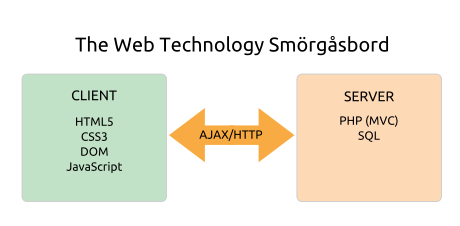
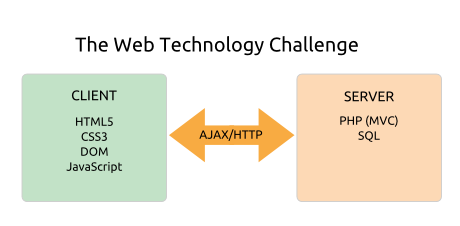
Refactored architectural goals

Changed region(s): [[0.5783, 0.1549, 0.8522, 0.2478]]

diff --git a/docs/architecture/goals.md b/docs/architecture/goals.md
@@ -1,103 +1,101 @@
-# Architecture & Design > Distinctive Design Goals
+# Architecture & Design > Design Goals
 
-## What Challenges Does Agile Toolkit Solve?
+## What Challenges Is Agile Toolkit Designed To Solve?
 
-Agile Toolkit is designed to help developers of data-intensive web applications solve three of their greatest challenges:
+Agile Toolkit is a new kind of PHP framework focused on easing the development of rich-client AJAX applications. 
 
-+ Rich web interfaces
-+ Agile development
-+ Code reusability
+The increasing importance of desktop-like AJAX interfaces is a game-changer for PHP application developers:
 
-### Rich web interfaces are hard
+* Rich interfaces require complex HTML5 and CSS3
+* We need non-trivial JavaScript in the client to enforce business rules, handle events and bind data structures to the interface
+* We need to move data between the database, our PHP server-side objects and our JavaScript in the client
+* For security, we need to double-check client-side business rules on the server
+* And we have to tie all this together with AJAX calls in both directions.
 
-The increasing importance of desktop-like AJAX interfaces is a game-changer for PHP developers. Nowadays you'll typically be juggling with a veritable smörgåsbord of technologies:
+![The Web Technology Challenge](/dia-web-technologies.png)
 
-+ HTML5 & CSS3 for the client interface
-+ JavaScript for client interactivity
-+ A PHP MVC framework on the server side
-+ Perhaps some raw SQL in the data layer
-+ And client-server AJAX calls to tie the whole thing together
+The PHP community offers an exceptional choice of well-engineered MVC frameworks, but even the best can only offer a partial solution to the many challenges of developing rich-client applications.
 
-![Web Development Complexity](dia-web-technologies.png)
+With some frameworks you create your AJAX data management system though code generation, and this can work well for straightforward requirements. But your application design is constrained by the features built into the generator, and you can end up adapting more complex projects to the framework rather than the framework to the project.
 
-This complexity makes modern rich web applications hard to author, hard to test and hard to change.
+The other main option is a multi-framework development stack. Typically this involves a PHP MVC framework on the server-side, a JavaScript user interface framework such as JQuery UI on the client-side, and perhaps a CSS framework such as Bootstrap to ease the styling headache. But now you're working with two or three complex and overlapping frameworks in different languages, and you're still having to figure out your own way to tie them together with AJAX. It's a challenge to keep things [DRY](http://en.wikipedia.org/wiki/Don't_repeat_yourself) and avoid duplicating effort on the client and the server. The learning curve is steep. And the resulting code can be hard to test and tricky to change as requirements evolve. 
 
-### Agile development is hard
+Neither of these solutions met the needs of our busy web development house. So we set out to build a more integrated, flexible and reliable approach to developing rich web applications.
 
-The benefits of [Agile development](http://en.wikipedia.org/wiki/Agile_development) are increasingly understood, but until now PHP frameworks haven't really evolved to meet the new demands of Agile processes. 
+## What Benefits Does Agile Toolkit Deliver?
 
-Ideally we want to incrementally add business and interface functionality without breaking our working code, and to plug together the work of different developers or teams for frequent releases with minimal integration headaches.
+With so many excellent PHP frameworks, any new project has to justify its existence by delivering dictinctive and compelling benefits.
 
-How much help does your current framework offer with these Agile challenges?
+Our inspiration has been desktop GUI frameworks such as Cocoa, QT and .Net. Compared to mainstream PHP frameworks, these offer a notably easier route to building rich applications:
 
-### Code reusability is hard
+* They abstract away most of the complexity of full-featured GUIs without sacrificing flexibility, freeing the developer to focus on business functionality rather than low-level nuts and bolts
+* You do your work in a single language and access the framework functionality through a single API
+* You create a rich user experience by plugging together and configuring well-tested GUI components
+* You develop new GUI components by combining sub-components
+* You can plug in additional functionality through a thriving ecosystem of open source and commercial addons
+* The GUI is nicely styled by default and is easy to re-skin
+* And on the business side, your data structures bind seamlessly to your interface widgets.
 
-This was the great promise of object-oriented design, but long experience has proved that effective reuse is a truly hard problem. 
+Agile Toolkit offers all of these benefits to developers building data-centric AJAX applications in PHP. 
 
-One of the most successful approaches is component reuse &ndash; flexible business and interface components can accelerate development and increase reliability.
+We call our solution a Toolkit rather than a framework because the focus is on rapid development with reusable interface and business components. And we call it Agile because the components are designed to adapt easily and reliably as agile requirements evolve.
 
-But few PHP application frameworks offer much help if you want to build truly useful components that can adapt to changing requirements.
+In practice, you'll be working with:
 
-### The need for a fresh approach
+* **A fresh approach to Views**: building a rich user experience by snapping together flexible, event-aware View components using only PHP([see more...](/TODO)) 
+* **A fresh approach to Models**: building your business logic in Models that plug directly into your View components and adapt robustly as requirements evolve ([see more...](/TODO)) 
+* **A fresh approach to Addons**: plugging in additional functionality from an ecosystem of Addons that take full advantage of the event handling and styling features of the Toolkit Core ([see more...](/TODO)).
 
-As we've seen, the demands on developers are evolving rapidly, but there's been surprisingly little innovation in the world of PHP application frameworks. The focus is on server-side implementations of the [MVC pattern](http://en.wikipedia.org/wiki/MVC_Pattern) (Model, View, Controller) and most of the main players seem to be converging on a very similar approach, to the point that their increasingly decoupled libraries are becoming interchangable. There have been major improvements in the field of testability through the use of [dependency injection](http://en.wikipedia.org/wiki/Dependency_Injection), but in most other respects the MVC frameworks of today are quite similar to the previous generation. 
+So what is the payoff for you, the developer? Quite simply, AJAX applications that are:
 
-So measured against the challenges of rich application interfaces, of Agile development and of code reusability, how much practical payoff is your big full-stack MVC framework really offering in return for the complexity and learning curve? It's a question that many are asking with increasing seriousness, and we even have community gurus such as Rasmus Lerdorf (the original author of PHP) arguing that you're better off with a [no-framework](http://toys.lerdorf.com/archives/38-The-no-framework-PHP-MVC-framework.html) approach.
+* Easier to build
+* Easier to test
+* And easier to change.
 
-But this is surely a counsel of despair. What we really need is a radical rethink of the purpose of PHP application frameworks to ensure that they offer practical help with the truly hard problems of rich application development.
+### Example: a full-featured CRUD application in just TODO lines of code
 
-## How Does Agile Toolkit Tackle These Challenges?
+To whet your appetite, here's a complete [CRUD](http://en.wikipedia.org/wiki/Create,_read,_update_and_delete) system for a `user` table, with searching, browsing, sorting, paging, creating, updating, deleting, validation and localized user error messages. With some popular frameworks this would require dozens, even hundreds of lines of code. Not with Agile Toolkit:
 
-Compared to a typical PHP MVC framework, the design of Agile Toolkit is quite radical. Our choices have been driven by three key goals:
+<?-- Would it be better to show them a relational example with master-detail? Even more impressive??>
 
-+ Harnessing the **Abstraction Principle** so developers can work with the web technology smörgåsbord through a consistent PHP API
-+ Harnessing the **Composability Principle** so developers can build complex business and interface components from smaller, tested subcomponents
-+ Harnessing the **Extensibility Principle** so developers can add new functionality to their components with ease as Agile requirements evolve.
+    TODO
+    // Let's set up a data Model
+    // Now we'll add some validation rules
+    // We plug our Model into the Agile Toolkit CRUD Addon
+    // And configure some additional UI functionality
+
+That's all there is to it. Every aspect of the functionality and look-and-feel can be customized with ease &ndash; you can even swap in a different grid component! And this is what you get in just xx lines of code &ndash; a full-featured, attractive data entry system that's ready to go:
+
+    TODO
+    // Screenshot? Screencast? Live demo?
+
+## How Does Agile Toolkit Deliver These Benefits?
+
+New benefits require new approaches. The techniques are widely used in desktop frameworks, but may be unfamiliar to web developers.
+
+You'll find the Toolkit easier to learn if you understand the four key engineering principles it's built on.
 
 ### The Abstraction Principle
 
-Typically developers will use: 
-
-* A PHP MVC framework to help abstract away HTTP, HTML5, SQL and server-side AJAX
-* A JavaScript toolkit such as [JQuery](http://jquery.com/) to help abstract away JavaScript, the DOM and client-side AJAX
-* And a front-end framework such as [Bootstrap](http://twitter.github.com/bootstrap/) to help abstract away HTML5, CSS3 and JavaScript.
-
-This helps bring the technology smörgåsbord under control, but working with three complex and overlapping frameworks in three different languages is still a pretty major headache.
-
-We developed Agile Toolkit to abstract all these technologies into one integrated and consistent PHP framework:
-
-* Managing the server-side with MVC refactored for the demands of Agile, component-driven development
-* Native integration of JQuery and JQuery UI, defining client-side behaviour and handling client-side events using PHP on the server-side
-* Styling your interface components with a fully-integrated CSS3 framework that's easy to skin and adapt
-* And handling all the AJAX complexity required to plumb the client into the server.
+We abstract all the technologies of the client-side and the server-side behind a consistent PHP interface. You lay out your data entry system, define UI behaviour and handle client-side events using PHP on the server.
 
 ![Web Development Levels of Abstraction](dia-levels-of-abstraction.png)
 
-Years of experience with demanding Agile projects has proven that this radical level of abstraction simplifies development and eases testing.
+Years of experience with demanding Agile projects has proven that this radical level of abstraction shortens the learning curve, simplifies development and eases testing.
 
 ### The Composability Principle
 
-As developers we've worked with GUI frameworks such as Cocoa, and when we began to build rich web interfaces we wondered why it had to be so hard. So we've adapted techniques from desktop GUI frameworks to the client-server world of web applications.
+The Toolkit is designed from the ground up to help developers compose View components from smaller sub-components. Component-focused development shortens delivery cycles and increases reliability, and it's Composability that makes this possible.
 
-On the desktop you build complex GUI components from simpler, tested subcomponents such as buttons, fields, data grids, forms and tabs. This is a practical example of [Composability](http://en.wikipedia.org/wiki/Composability)
+Techically, Composability requires components that are independent, keep track of their own state and know how to cooperate with each other. Much of the design of Agile Toolkit is focused on achieving these requirements.
 
-Our goal for Agile Toolkit was to make it equally easy to build interactive, event-aware interface components using HTML5, CSS3, JavaScript and AJAX. 
+Composability isn't restricted to View components &ndash; Models are composable too. So you can build complex business rules from simpler sub-components.
 
-Achieving Composability requires new approaches to framework design. Components need to be independent, keep track of their own state and know how to cooperate with each other. This is a challenge for developers, so as far as possible the framework has to handle this for them. In Agile Toolkit all objects descend from an `Abstract Object` class which provides a number of Composability services. You'll find the details in the article [Working With Objects](/TODO).
-
-In Agile Toolkit, Composability  means that interface objects know how to render their children and access them dynamically with JQuery. For example you can create a form, plug in layers of interactive, event-aware subcomponents, write your event handling code in PHP and the whole thing will automatically render and run. It all just works.
-
-From there it's a short step to realizing that SQL queries can also be rendered from nested templates, so we built Agile ORM, an object-relational mapper that allows you to compose SQL queries from smaller query components such as expressions and subqueries.
-
-It's a new world for PHP and you're going to love it! To give you a taste of the power of Composability, here's a complete [CRUD](http://en.wikipedia.org/wiki/Create,_read,_update_and_delete) system for a `user` table, with searching, browsing, sorting, paging, creating, updating, deleting, validation and localized user error messages. It's built with an Addon component composed from a wide range of subcomponents.
-
-    TODO, with the new declarative validation plugin
-
-With Agile Toolkit any developer can quickly develop a range of tested and reliable business and interface components to meet the repeating requirements of your problem domain.
+With Agile Toolkit any developer can quickly develop a range of flexible business and interface components to meet the repeating requirements of your problem domain.
 
 ### The Extensibility Principle
 
-But Composability is only the first step to a truly Agile web framework. In many ways the toughest challenge is adding functionality to your components as your application evolves.
+Composability is only the first step to a truly Agile web framework. In many ways the toughest challenge is adding functionality to your components as your application evolves.
 
 This is where you need [Extensibility](http://en.wikipedia.org/wiki/Extensibility) &ndash; the ability to add new functionality without breaking existing tested code.
 
@@ -105,26 +103,16 @@ To achieve Composability we designed our Model and View objects so they store th
 
 This means that when you extend an object any of its settings can be modified to provide different or additional functionality without breaking the existing, tested, parent object.
 
-Say, for example, you have a `user` Model handling your business rules and actions for application users. Then the client decides that they also need a `superuser` entity. A `superuser` does most things the same way as a `user`, does some things differently, and does some new actions not shared with a `user` which use different fields. With most ORMs this wouldn't be easy to achieve without disrupting existing code and tests. With Agile Toolkit, it's simple to extend your Model to add the new requirements:
+In general, best practice in Agile Toolkit is to add new functionality by extending the existing object, without disrupting its existing code and tests. The Extensibility features are designed to ensure that this process is rapid and realiable.
 
-    TODO: example
+Our focus on Composability and Extensibility means that everything in Agile Toolkit is an object &ndash; there's no use of static classes. Any component can be reconfigured or swapped out at runtime, so the Toolkit is a software tester's dream! 
 
-Any code using the parent `user` Model will continue to work, because nothing has changed. And there's no danger that new code using the the `superuser` Model will inadvertantly apply `superuser` operations to a mere `user` because you changed the query conditions to select only `superusers` to operate on: there's a clean separation of concerns. Your old `user` tests continue to run, and you add specific tests for the new `superuser` functionality. So changing your code is easy, robust and safe. That's the power of the Extensibility Principle, and you'll find it applied throughout the View and Model objects within the Toolkit.
+### The Simplicity Principle
 
-As an important side effect, this means that Agile Toolkit is radically injectable: any object can be swapped out or reconfigured at any stage with no need for any special planning or configuration. So it's a software tester's dream!
-
-## The Simplicity Principle
-
-To summarize, our overriding aim is to simplify the process of developing data-intensive rich web applications. Frankly, with some of the leading PHP frameworks there are times you can feel that they're making simple things complex. With Agile Toolkit, our focus is always to make complex things simpler:
-
-* It's simpler to build rich web interfaces
-* It's simpler to build reusable business and interface components
-* And its simpler to adapt your components as Agile requirements evolve.
-
-This focus on simplicity extends to the code itself. The Core is small and lean, with non-essential services provided by optional Addons. And we always adopt the simplest practical approach, even if it's not the trendiest. For example:
+Finally, working with web frameworks you can sometimes feel that they're making simple things complex. With Agile Toolkit we strive to avoid this by always adopting the simplest practical approach, even if it's not the 'purest' or trendiest. For example:
 
 * Configuration files are plain old PHP hashes, so if you want complex conditional configurations just pop in some code.
-* Namespacing isn't used within the core and application code unless you're using Addons or external libraries. It's never caused any practical problems and we avoid tedium like this:
+* You won't need namespacing unless you're using Addons or external libraries. This has never caused any practical problems and we avoid tedium like this:
 
     <pre>
     namespace Acme\TaskBundle\Controller;
@@ -134,8 +122,6 @@ This focus on simplicity extends to the code itself. The Core is small and lean,
     use Symfony\Component\HttpFoundation\Request;
     </pre>
 
-* We use good old $\_GET and $\_POST rather than some kind of complex request object.
+* We use directories in the file system to define our routes, just as HTTP intended.
 
 You'll find this kind of pragmatic thinking throughout the codebase. It helps to keep the code lean and the learning curve low.
-
-Radical new benefits require radical new approaches. As you dig into these docs you'll find there's much about Agile Toolkit that's unfamiliar &ndash; it's not hard to learn but it does require some new thinking. So do please bear the purpose in mind: Agile Toolkit is designed to deliver new levels of Abstraction, Composability and Extensibility so that development becomes simpler, faster and more agile.

diff --git a/docs/architecture/mvc.md b/docs/architecture/mvc.md
@@ -1,5 +1,45 @@
 # Architecture & Design > A New Approach To MVC
 
+For example you can create a form, plug in layers of interactive, event-aware subcomponents, write your event handling code in PHP and the whole thing will automatically render and run. It all just works.
+## What Are The Key Features Of Agile Toolkit?
+
+We can sum up the key features under three headings:
+
+* A fresh approach to Views
+* A fresh approach to Models
+* And a fresh approach to Addons (our term for plugins).
+
+### A fresh approach to Views
+
+As with a GUI development framework, in Agile Toolkit you build your UI by plugging together and configuring widgets such as buttons, fields, tabs, forms and grids. You lay out your interface, define widget behaviour, bind data and handle events exclusively on the server using PHP. All the AXAX plumbing is handled for you under the hood, and everything simply works. View components are objects, and can be extended and customized at will.
+
+There's also a default styling system so your interface looks good from the get-go, but again, you can customize to your heart's content.
+
+Even if you're a JavaScript guru there are payoffs for managing your client with PHP. Agile Toolkit is smart enough to handle the interractions between your interface objects with minimal developer input:
+
+    // Show a flyout message when file upload completes
+
+    $upload = $this->add('FileUploadComponent');
+    $flyout = $this->add('FlyoutComponent');
+    $upload->js('completed', $flyout->showJS());
+
+### A fresh approach to Models
+
+In Agile Toolkit, Models are fully integrated with View components, so data binding becomes as easy as this:
+
+    $grid->setModel('Product');
+
+Now the Toolkit will handle all the AJAX loading for you behind the scenes. 
+
+But we went further. The Agile ORM is exceptionally flexible, and your queries can be  be extended and customised. With Agile Toolkit, you can build your agile application incrementally, adding new functionality by extending and customising existing objects without breaking your old code or your working tests. 
+
+### A fresh approach to Addons
+
+With the mainstream PHP frameworks the recent emphasis has been decoupling functionality into standalone [PSR-compliant](https://github.com/php-fig/fig-standards/tree/master/accepted) libraries.  
+
+By contrast, Agile Toolkit Addons are highly coupled to the Toolkit. You lose a certain degree of code portability, but you gain a great deal of built-in functionality. So your UI Addons, for example, get immediate access to all the built-in styling and JavaScript smarts of the Toolkit Core. 
+
+
 ## The Agile Toolkit Approach To MVC
 
 Agile Toolkit takes a highly opinionated approach to MVC, building it into the object structure of the framework. Every line of code you write (excluding Exceptions) is descended from an `AbstractModel` class, an `AbstractView` class, or an `AbstractController` class. So everything in your application is either a Model, a View or a Controller. 

diff --git a/docs/clipboard.md b/docs/clipboard.md
@@ -1,0 +1,11 @@
+EXTENDING MODELS
+
+In Agile Toolkit you'll generally be adding functionality by extending the original object rather than changing its code. Say, for example, you have a `user` Model handling your business rules and actions for application users. Then the client decides that they also need a `superuser` entity. A `superuser` does most things the same way as a `user`, does some things differently, and does some new actions not shared with a `user` which use different fields. With most ORMs this wouldn't be easy to achieve without disrupting existing code and tests. With Agile Toolkit, it's simple to extend your Model to add the new requirements:
+
+    TODO: example
+
+Any code using the parent `user` Model will continue to work, because nothing has changed. And there's no danger that new code using the the `superuser` Model will inadvertantly apply `superuser` operations to a mere `user` because you changed the query conditions to select only `superusers` to operate on: there's a clean separation of concerns. Your old `user` tests continue to run, and you add specific tests for the new `superuser` functionality. So changing your code is easy, robust and safe. That's the power of the Extensibility Principle, and you'll find it applied throughout the View and Model objects within the Toolkit.
+
+As an important side effect, this means that Agile Toolkit is radically injectable: any object can be swapped out or reconfigured at any stage with no need for any special planning or configuration. So it's a software tester's dream!
+
+

diff --git a/rules/doc-style-rules.md b/rules/doc-style-rules.md
@@ -20,6 +20,7 @@ This doc will evolve ad-hoc as use-cases come up.
 
 * Use 'Agile Toolkit' not 'ATK4' or 'The Agile Toolkit'
 * When 'Agile Tookit' becomes too repetative, you can occasionally shorten it to 'the Toolkit'
+* Agile Toolkit is never a "framework", always a "Toolkit"
 * Use 'Addon' not 'addon' or 'add-on'
 * Use 'Core' for the code in the /atk4 directory
 * For the ATK classes, capitalise View, Page, Model & Controller
